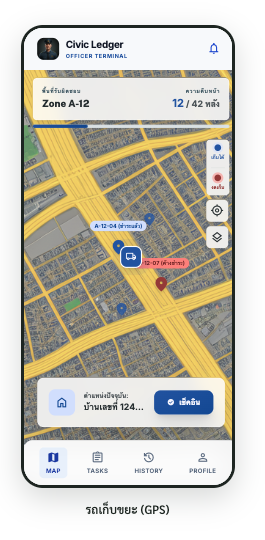
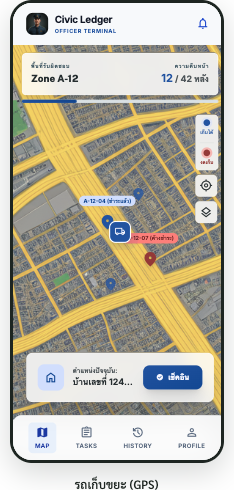
fix image on freemangement page 13

diff --git a/src/pages/WasteCollectionFee.jsx b/src/pages/WasteCollectionFee.jsx
@@ -1011,8 +1011,9 @@ function Slide13() {
       </Lead>
       <div style={{ display: 'grid', gridTemplateColumns: '300px 1fr', gap: 36, marginTop: 14, flex: 1, alignItems: 'center' }}>
         <div style={{ display: 'flex', flexDirection: 'column', alignItems: 'center', gap: 10 }}>
-          {/* No bezel frame — the image fills the space the dark green frame used to occupy */}
-          <div style={{ borderRadius: 24, overflow: 'hidden', width: 276, height: 500, background: '#000', boxShadow: '0 18px 40px rgba(0,0,0,0.22)' }}>
+          {/* No bezel frame — image is the full-bleed app screen (white frame cropped out of the PNG).
+              Box matches the screenshot's natural phone aspect (234×490) so nothing is cropped. */}
+          <div style={{ borderRadius: 24, overflow: 'hidden', width: 245, height: 513, background: '#000', boxShadow: '0 18px 40px rgba(0,0,0,0.22)' }}>
             <img
               src="images/waste-fee/driver-map.png"
               alt="Driver App · GPS Map · Zone A-12"
